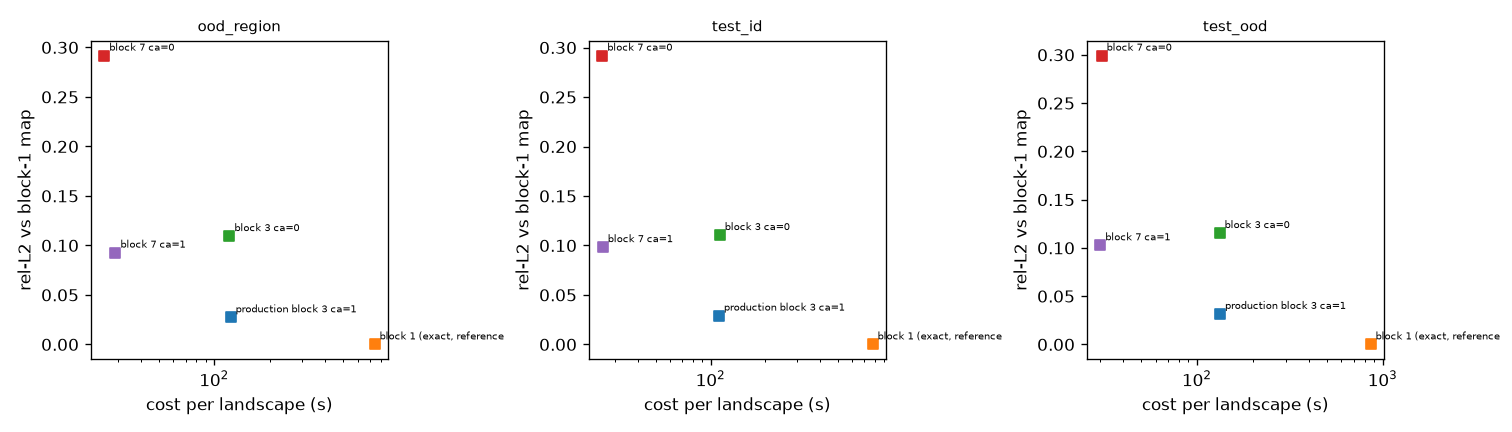
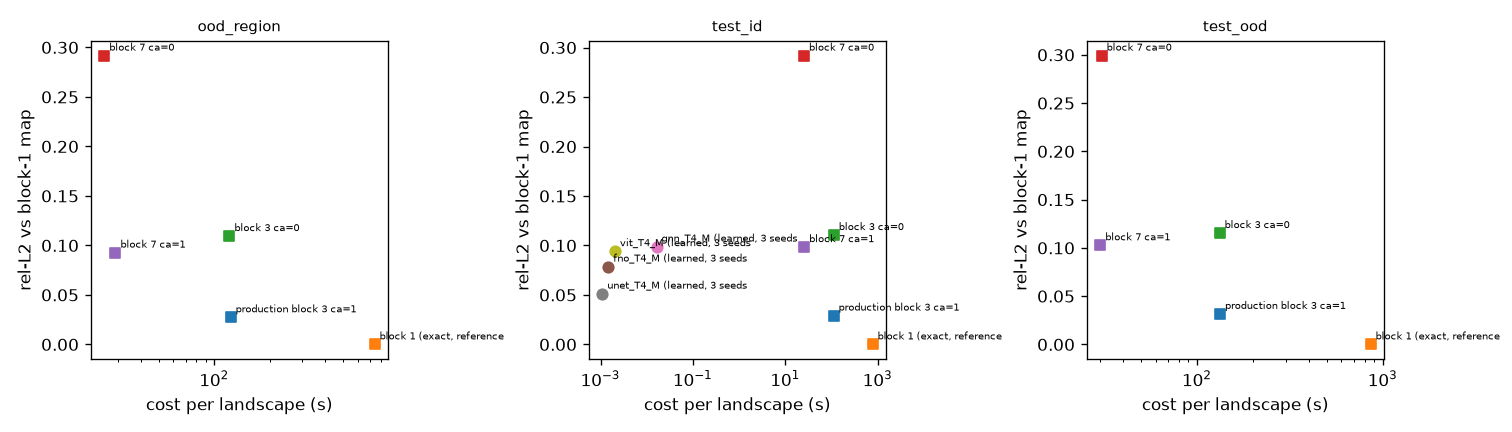
t4_pareto: learned rows from each run's exact-reference evaluation, seeds averaged (Phase 10-full layout)

diff --git a/scripts/t4_pareto.py b/scripts/t4_pareto.py
@@ -62,13 +62,40 @@ def block_rows(ref: pathlib.Path, blocks: list[pathlib.Path]) -> pd.DataFrame:
 
 
 def model_rows(runs: list[pathlib.Path], tier: str) -> pd.DataFrame:
+    """Learned rows. Phase 10-full runs carry the evaluation against the exact block-1 map in
+    <run>/eval_t4_reference/results.json (test_id; `scripts/evaluate.py --t4-reference`): its per-task metrics and the
+    median per-landscape inference time are used, and seeds of one model are averaged into one row
+    (`<model> (learned, k seeds)`). Dev-era runs without that file fall back to the production-target metrics in
+    results.json (tags `<root>_<tier>_<split>`)."""
+    import re
+
     rows = []
     for r in runs:
+        ref = r / "eval_t4_reference" / "results.json"
+        if ref.exists():
+            rr = json.loads(ref.read_text())
+            m = rr["per_task"].get("T4", {})
+            ts = [x.get("inference_time_s") for x in rr["per_sample"] if x.get("inference_time_s")]
+            rows.append(
+                {
+                    "split": rr["splits"][0],
+                    "method": re.sub(r"_s\d+$", "", r.name),
+                    "seed": r.name,
+                    "n": rr["n_rows"],
+                    "cost_s": float(pd.Series(ts).median()) if ts else None,
+                    **{
+                        k: (m.get(k) or {}).get("mean") if isinstance(m.get(k), dict) else m.get(k)
+                        for k in KEYS
+                    },
+                }
+            )
+            continue
         res = json.loads((r / "results.json").read_text())
         for tag, e in res["eval"].items():
-            if not tag.startswith(f"S_{tier}_") and not tag.startswith(f"{tier}_{tier}_"):
+            mt = re.match(rf"^[^_]+_{tier}_(test_id|test_ood|ood_region)$", tag)
+            if not mt:
                 continue
-            split = tag.split("_", 2)[2]
+            split = mt.group(1)
             m = e.get("T4", {})
             if not m or m.get("rel_l2") is None:
                 continue
@@ -81,13 +108,31 @@ def model_rows(runs: list[pathlib.Path], tier: str) -> pd.DataFrame:
             rows.append(
                 {
                     "split": split,
-                    "method": f"{r.name} (learned)",
+                    "method": re.sub(r"_s\d+$", "", r.name),
+                    "seed": r.name,
                     "n": e.get("n_rows"),
                     "cost_s": cost,
                     **{k: m.get(k) for k in KEYS},
                 }
             )
-    return pd.DataFrame(rows)
+    df = pd.DataFrame(rows)
+    if not len(df):
+        return df
+    agg = (
+        df.groupby(["split", "method"])
+        .agg(
+            n=("n", "first"),
+            seeds=("seed", "nunique"),
+            cost_s=("cost_s", "mean"),
+            **{k: (k, "mean") for k in KEYS},
+        )
+        .reset_index()
+    )
+    agg["method"] = [
+        f"{m} (learned, {k} seed{'s' if k > 1 else ''})"
+        for m, k in zip(agg.method, agg.seeds, strict=True)
+    ]
+    return agg.drop(columns="seeds")
 
 
 def main():

diff --git a/paper/tables/t4_pareto_L.md b/paper/tables/t4_pareto_L.md
@@ -12,6 +12,14 @@
 | test_id | block 5 (correct_artifacts=0) | 24 | 638 | 0.1011 | 0.1141 | 0.0217 | 0.7710 | 0.9767 | 0.9870 |
 | test_id | production block 5 (correct_artifacts=1) | 24 | 566 | 0.0315 | 0.0359 | 0.0135 | 0.9344 | 0.9319 | 0.9979 |
 | test_id | block 11 (correct_artifacts=1) | 24 | 164 | 0.0854 | 0.0954 | 0.0409 | 0.8317 | 0.8183 | 0.9895 |
+| test_id | gnn_T4_L_s1_scalenorm (learned, 1 seed) | 1927 | 0.0665 | 0.1407 | – | 0.0733 | 0.6306 | 0.7139 | 0.9609 |
+| test_id | gnn_T4_L (learned, 3 seeds) | 1927 | 0.0658 | 0.1416 | – | 0.0738 | 0.6321 | 0.7041 | 0.9604 |
+| test_id | vit_T4_L (learned, 3 seeds) | 1927 | 0.0141 | 0.1586 | – | 0.0973 | 0.6046 | 0.7348 | 0.9529 |
+| test_id | vit_T4_L_s1_scalenorm (learned, 1 seed) | 1927 | 0.0125 | 0.1614 | – | 0.0983 | 0.6017 | 0.7361 | 0.9513 |
+| test_id | fno_T4_L_s1_scalenorm (learned, 1 seed) | 1927 | 0.00744 | 0.1199 | – | 0.0735 | 0.7145 | 0.5492 | 0.9734 |
+| test_id | unet_T4_L (learned, 3 seeds) | 1927 | 0.00652 | 0.0810 | – | 0.0377 | 0.8122 | 0.8254 | 0.9916 |
+| test_id | fno_T4_L (learned, 3 seeds) | 1927 | 0.00541 | 0.1198 | – | 0.0729 | 0.7132 | 0.5531 | 0.9735 |
+| test_id | unet_T4_L_s1_scalenorm (learned, 1 seed) | 1927 | 0.00538 | 0.0804 | – | 0.0385 | 0.8070 | 0.8262 | 0.9913 |
 | test_ood | block 1 (exact, reference) | 16 | 1.4e+04 | 0.0000 | 0.0000 | 0.0000 | 1.0000 | 1.0000 | 1.0000 |
 | test_ood | block 3 (correct_artifacts=1) | 16 | 2.02e+03 | 0.0175 | 0.0267 | 0.0065 | 0.9388 | 0.9503 | 0.9978 |
 | test_ood | block 5 (correct_artifacts=0) | 16 | 764 | 0.1004 | 0.1480 | 0.0405 | 0.7137 | 0.9802 | 0.9783 |

diff --git a/paper/tables/t4_pareto_M.md b/paper/tables/t4_pareto_M.md
@@ -12,6 +12,10 @@
 | test_id | production block 3 (correct_artifacts=1) | 400 | 111 | 0.0291 | 0.0371 | 0.0119 | 0.9357 | 0.9312 | 0.9983 |
 | test_id | block 7 (correct_artifacts=1) | 400 | 25.5 | 0.0983 | 0.1064 | 0.0526 | 0.8081 | 0.8081 | 0.9845 |
 | test_id | block 7 (correct_artifacts=0) | 400 | 25.4 | 0.2918 | 0.3771 | 0.0679 | 0.5468 | 0.9662 | 0.9664 |
+| test_id | gnn_T4_M (learned, 3 seeds) | 4823 | 0.0163 | 0.0989 | – | 0.0536 | 0.6983 | 0.7746 | 0.9720 |
+| test_id | vit_T4_M (learned, 3 seeds) | 4823 | 0.00205 | 0.0942 | – | 0.0561 | 0.7199 | 0.8193 | 0.9789 |
+| test_id | fno_T4_M (learned, 3 seeds) | 4823 | 0.00147 | 0.0787 | – | 0.0524 | 0.7784 | 0.7537 | 0.9847 |
+| test_id | unet_T4_M (learned, 3 seeds) | 4823 | 0.00109 | 0.0513 | – | 0.0251 | 0.8569 | 0.8993 | 0.9951 |
 | test_ood | block 1 (exact, reference) | 300 | 860 | 0.0000 | 0.0000 | 0.0000 | 1.0000 | 1.0000 | 1.0000 |
 | test_ood | production block 3 (correct_artifacts=1) | 300 | 133 | 0.0316 | 0.0517 | 0.0112 | 0.9154 | 0.9252 | 0.9954 |
 | test_ood | block 3 (correct_artifacts=0) | 300 | 132 | 0.1153 | 0.1520 | 0.0266 | 0.5998 | 0.7793 | 0.9626 |
